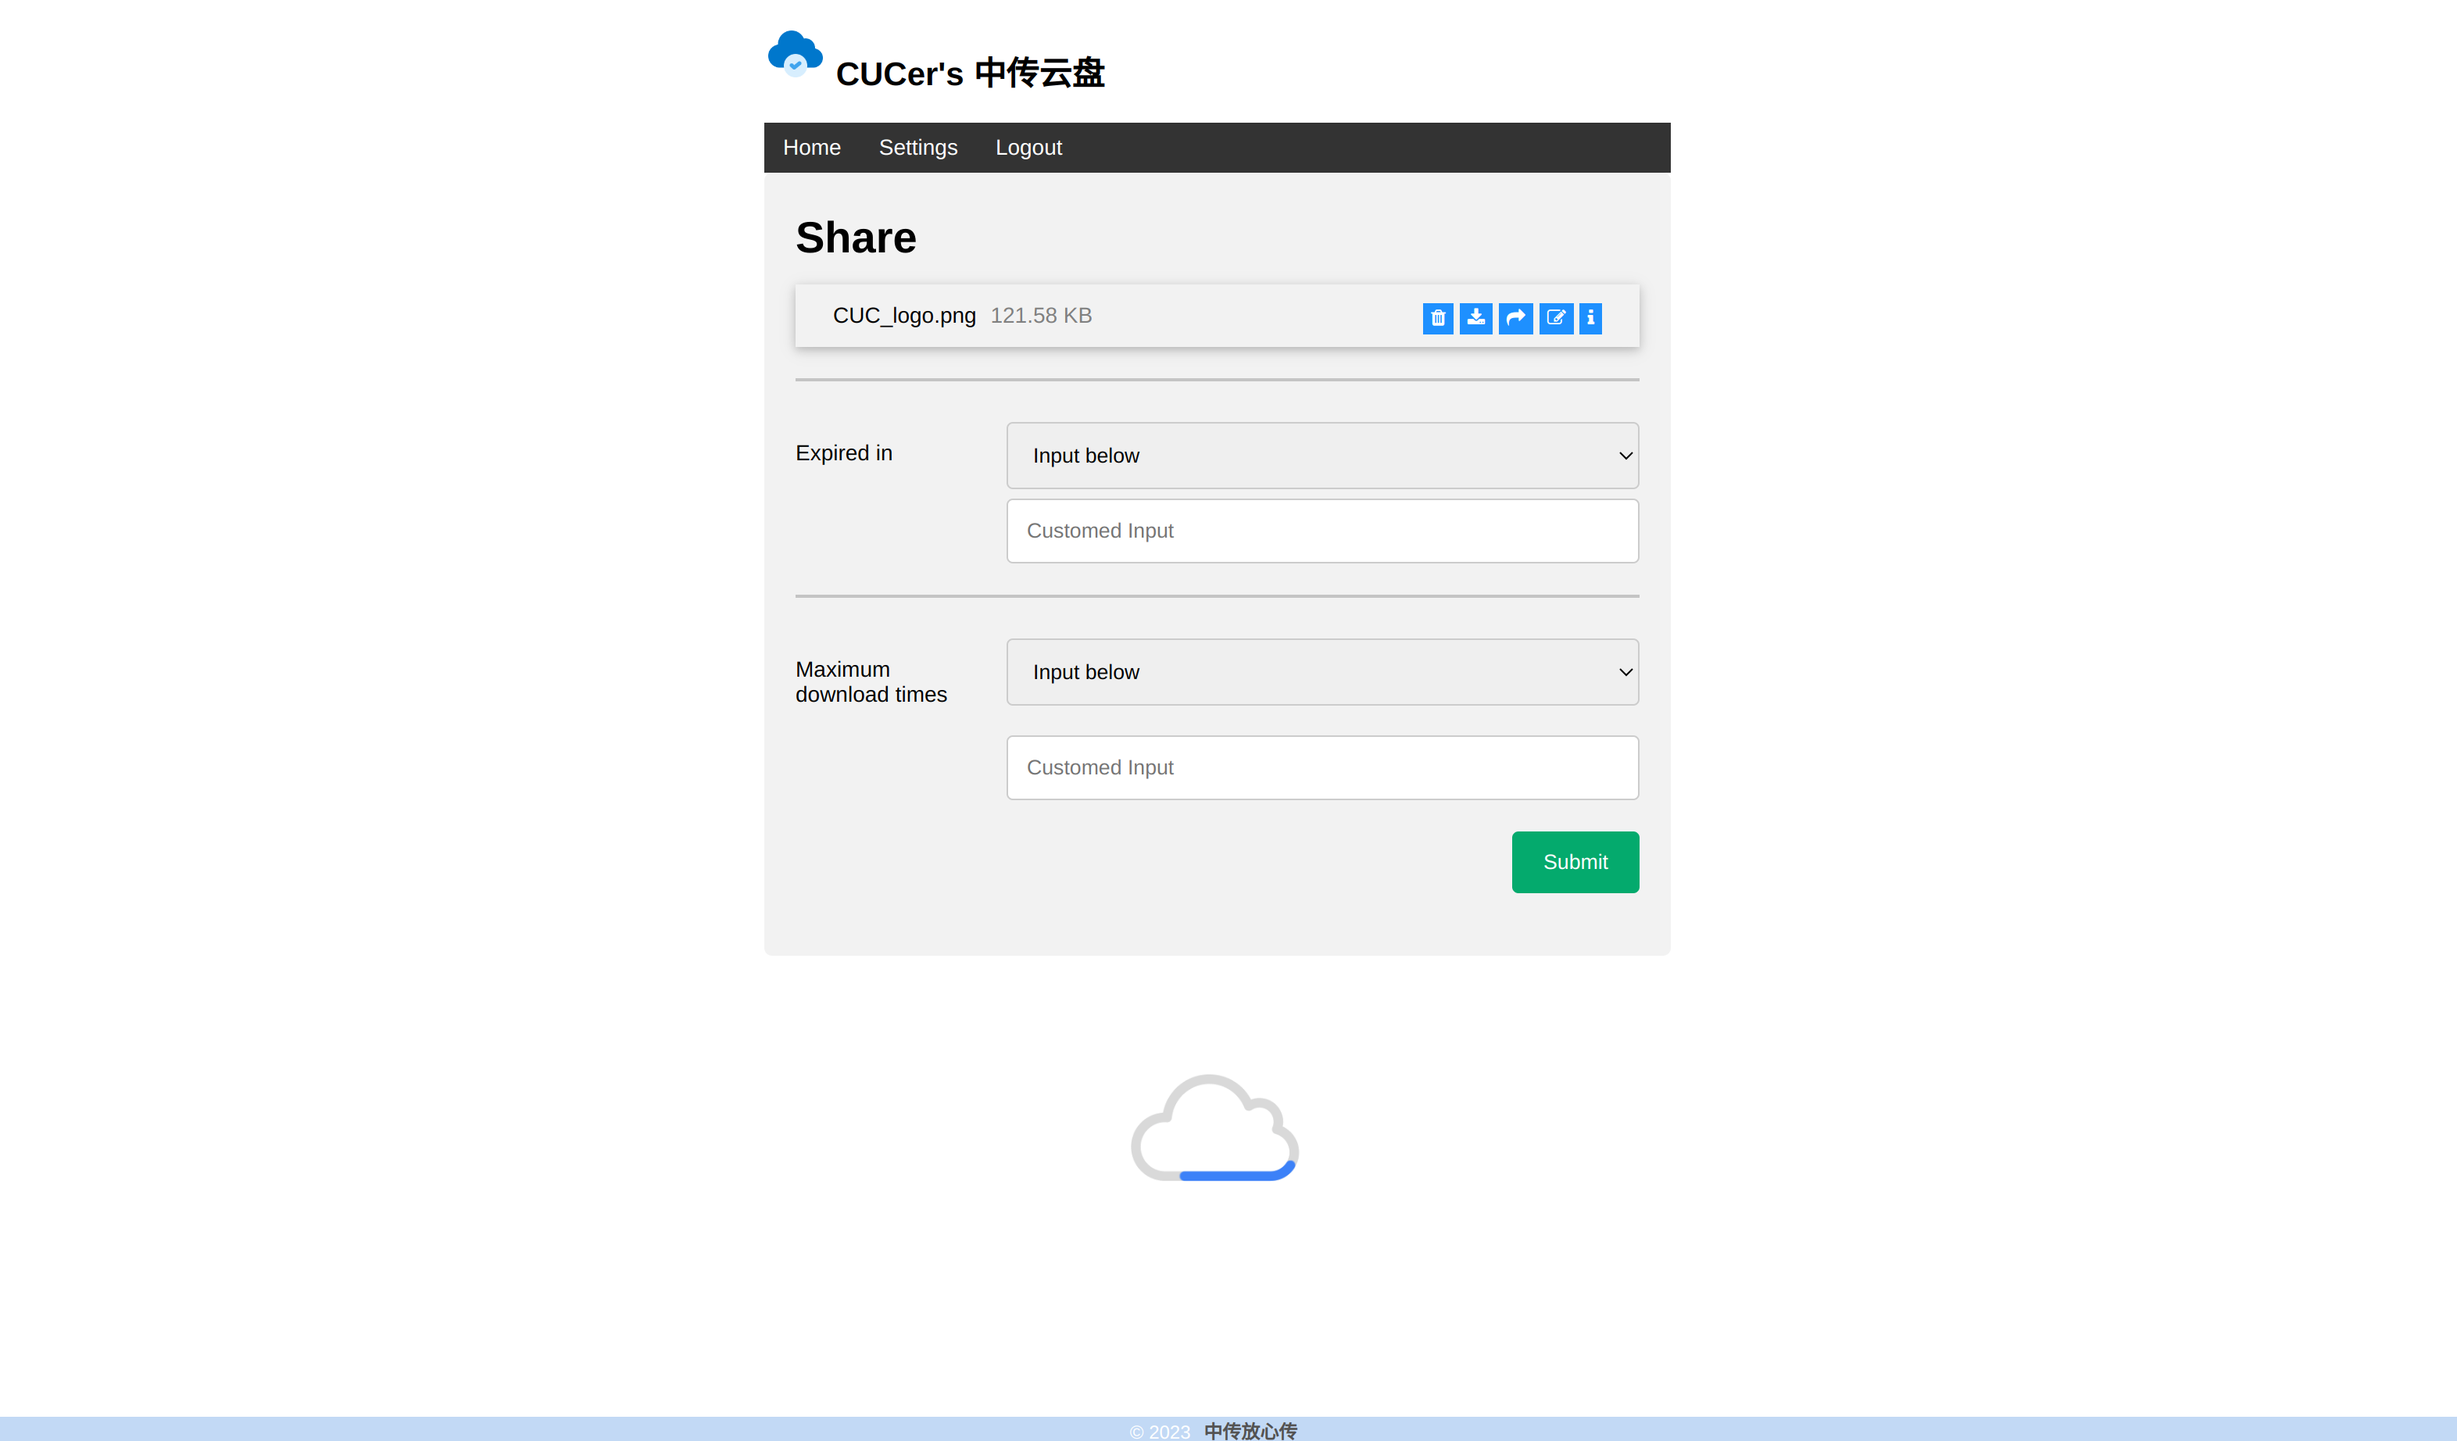
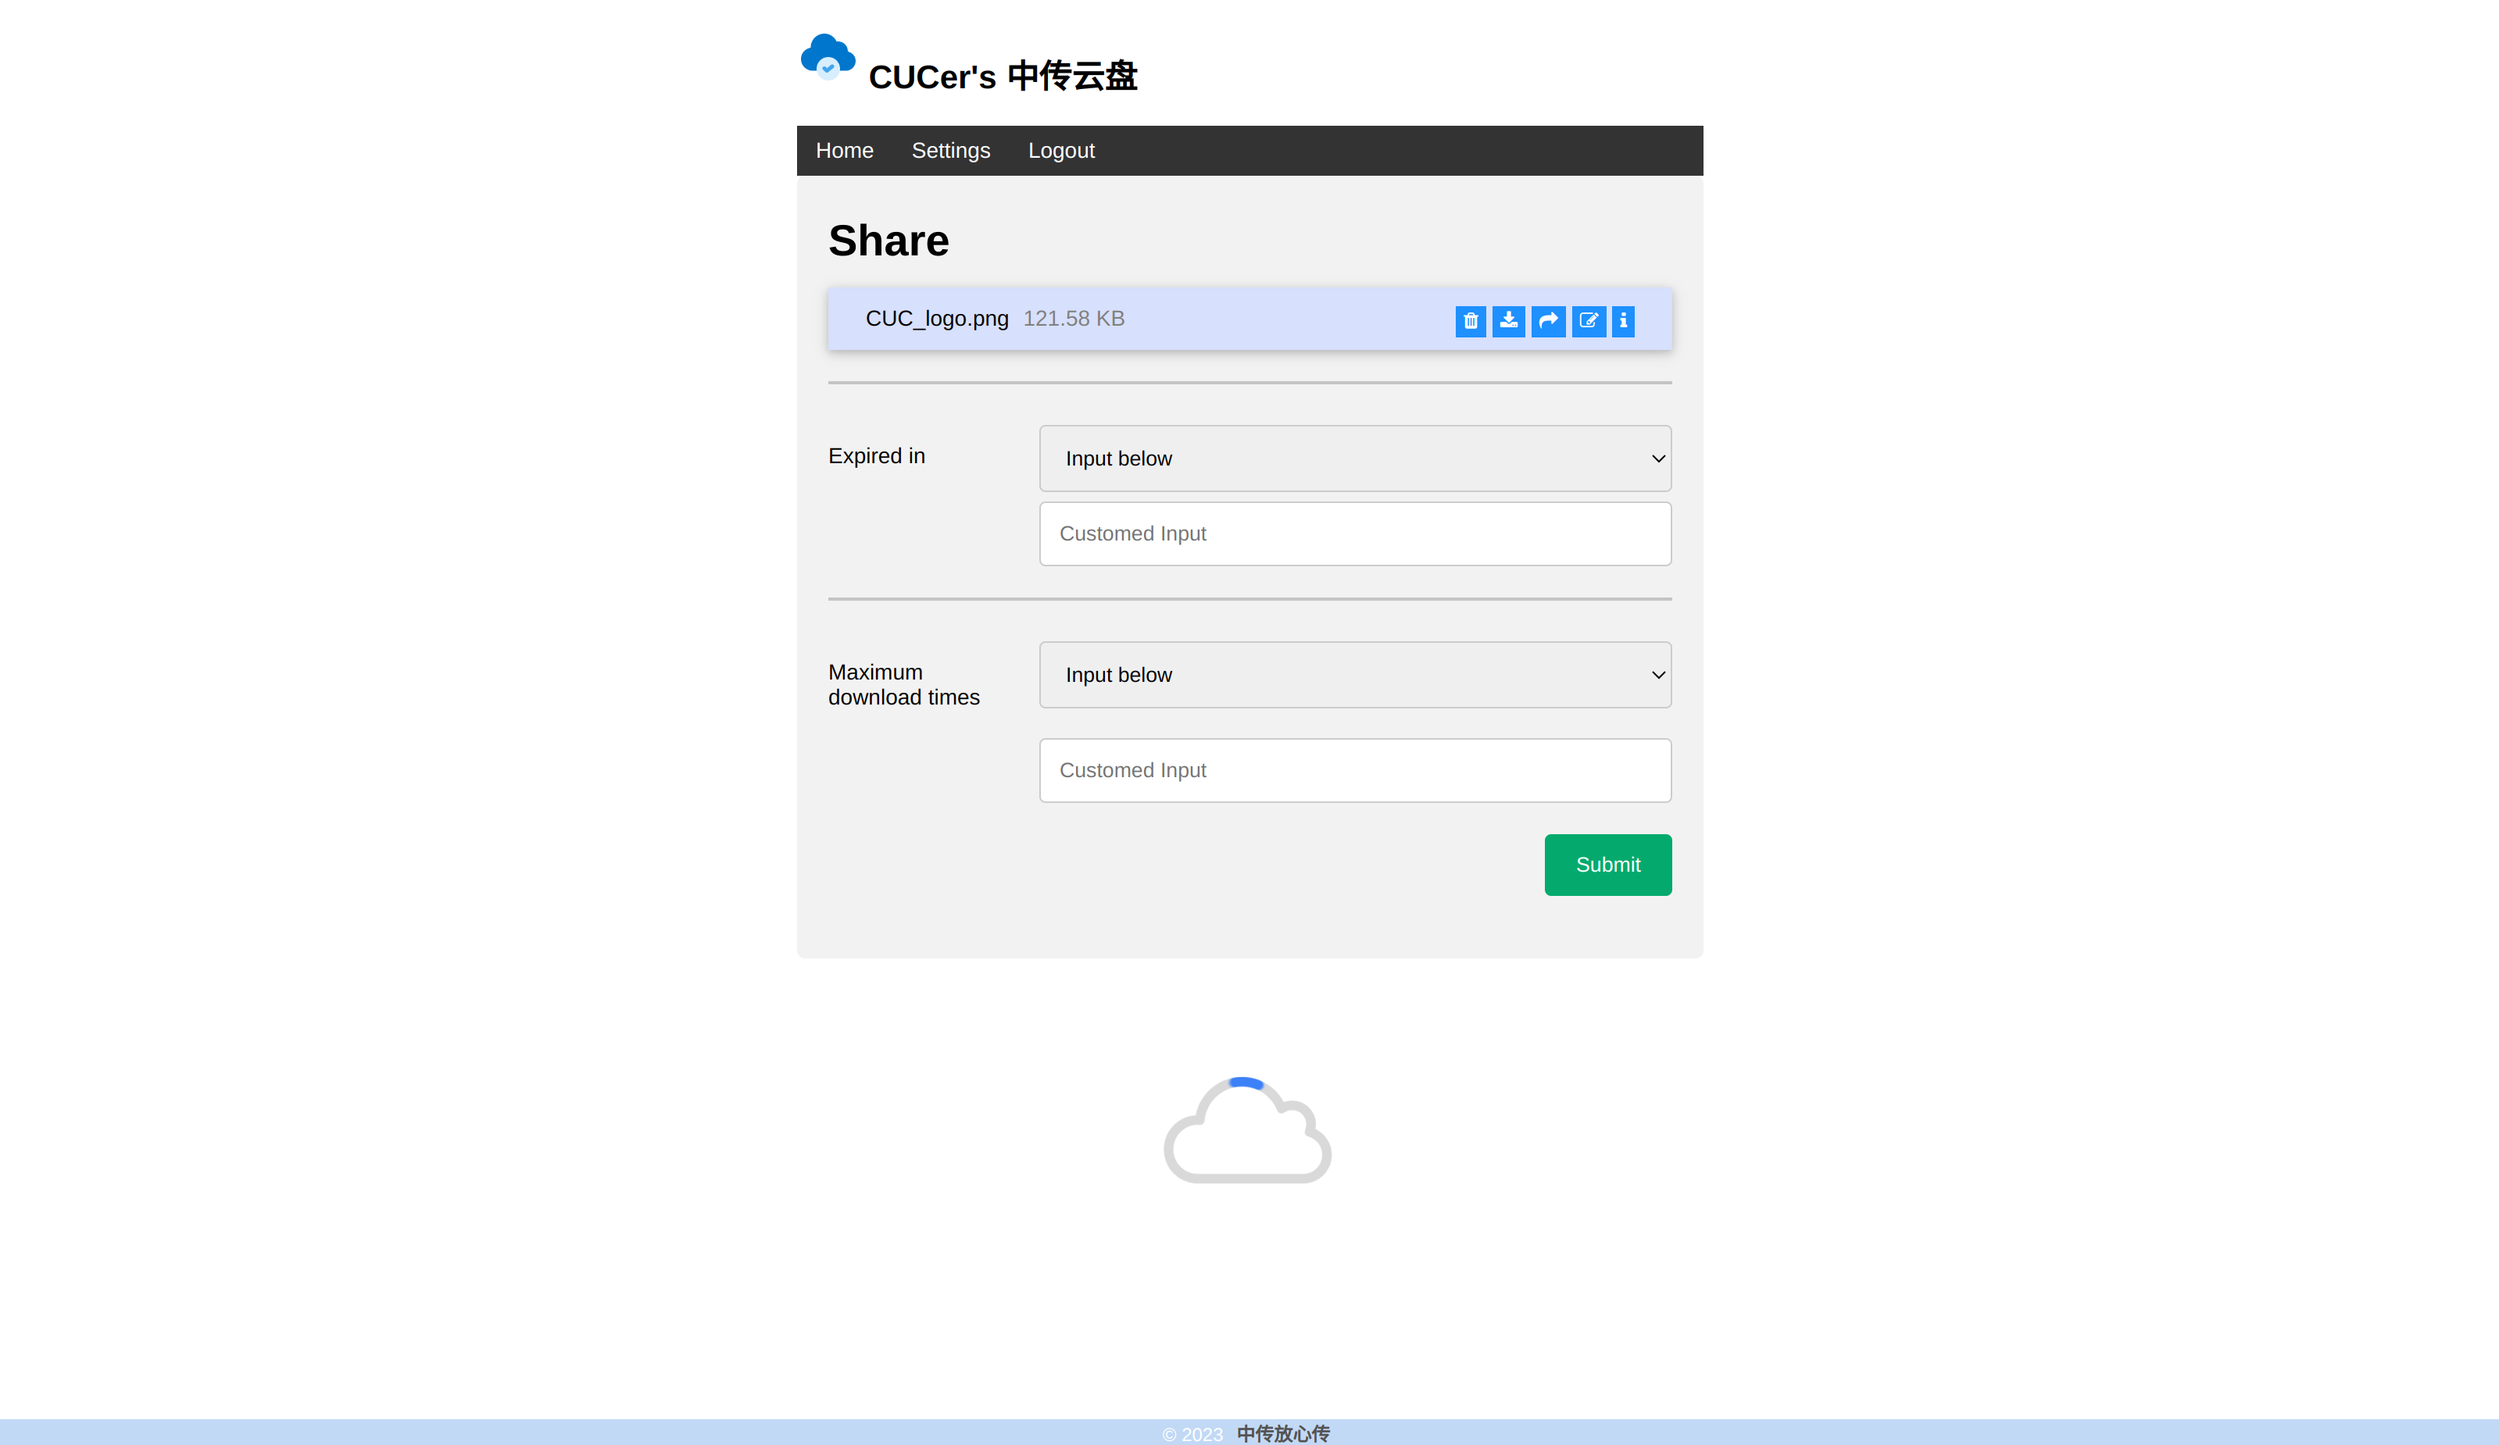
为 share 页面文件列表添加 background-color

diff --git a/acweb/templates/share.html b/acweb/templates/share.html
@@ -8,8 +8,8 @@
 <div class="container">
     <h1 class="share_title">Share</h1>
 
-    <ul class="cloud_file-list">
-    <li>{{ cloud_file.file_name }} <span class="file_size_str"> {{ cloud_file.get_size_str() }}</span>
+    <ul class="cloud_file-list single_cloud_file_list">
+    <li single_cloud_file-list>{{ cloud_file.file_name }} <span class="file_size_str"> {{ cloud_file.get_size_str() }}</span>
         <span class="float-right">
             {% if current_user.is_authenticated %}
             <button class="icon_btn"

diff --git a/acweb/static/css/share.css b/acweb/static/css/share.css
@@ -94,3 +94,8 @@ button.icon_btn {
 button.icon_btn:hover {
     background-color: RoyalBlue;
 }
+
+.single_cloud_file_list {
+    /* background-color: #ffea9e; */
+    background-color: rgb(215, 224, 252);
+}
